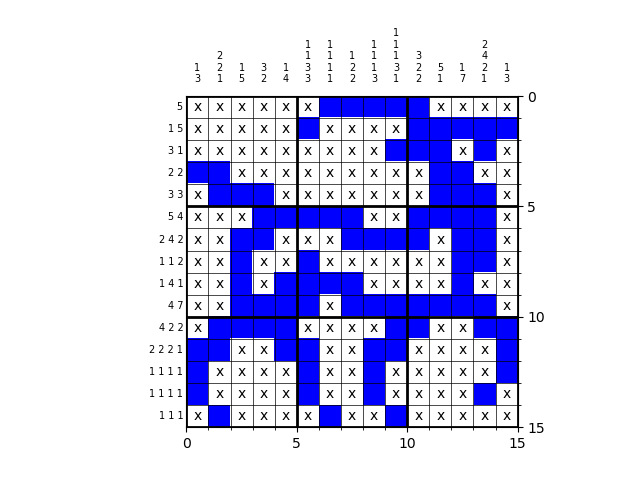
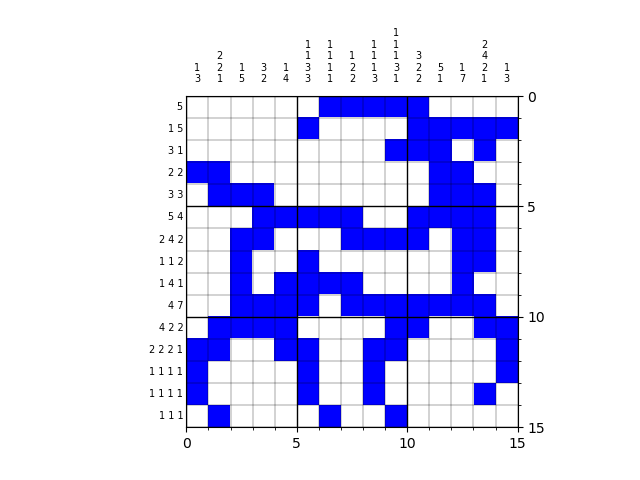
added skipping hard rows

Changed region(s): [[0.2812, 0.1875, 0.8125, 0.9062]]

diff --git a/Nonogram_solver.py b/Nonogram_solver.py
@@ -3,7 +3,7 @@ from matplotlib import colors
 from matplotlib.ticker import MultipleLocator
 import copy
 import time
-
+from math import factorial
 
 class Nonogram:
     """This class contains all the functions needed to solve a nonogram"""
@@ -18,12 +18,15 @@ class Nonogram:
         self.n_rows = len(side_digits)
         self.n_cols = len(top_digits)
         self.field = [[0 for _ in range(self.n_cols)] for _ in range(self.n_rows)]  # the field to solve: 0 means unknown, 1 means space, 2 means painted
+        self.rows_skipped = []
+        self.cols_skipped = []
 
-    def solve(self):
+    def solve(self, n_skip=30_000_000_000):
         """
         This function solves the nonogram and populates self.field with the solution
         """
         time_start = time.time()
+        self.define_skipped_lines(n_skip)  # find what rows and cols to skip
         self.paint_overlaps()  # do fast first iteration
         iteration_count = 0
         while True:  # start solving by going through rows and columns in each iteration
@@ -34,12 +37,34 @@ class Nonogram:
             if 0 not in flattened_field:  # stop if all squares are solved
                 print('puzzle is successfully solved')
                 break
-            if self.field == field_save:  # stop if no progress was made
-                print('stopping because no progress after iteration ', iteration_count)
-                break
+            if self.field == field_save:  # if no progress was made
+                if not self.rows_skipped and not self.cols_skipped:  # no progress and no lines skipped -> cannot solve any more
+                    print('stopping because no progress after iteration ', iteration_count)
+                    break
+                else:
+                    print('no progress - solving with the skipped rows and columns')  # no progress but there are lines skipped -> start solving with skipped lines
+                    self.rows_skipped = []
+                    self.cols_skipped = []
             iteration_count += 1
         time_finish = time.time()
         print('elapsed time:', time_finish - time_start, 'seconds')
+
+    def define_skipped_lines(self, n_skip):
+        """
+        this function adds rows or columns to the lists to skip if there are too many options
+        """
+        for ind_row in range(self.n_rows):  # go row-by-row
+            block_lengths = self.side_digits[ind_row]
+            n_options = self.estimate_n_options(block_lengths, self.n_cols)
+            if n_options > n_skip:
+                self.rows_skipped.append(ind_row)
+                print(n_options, 'options in row', ind_row, '- will be skipped')
+        for ind_col in range(self.n_cols):  # go col-by-col
+            block_lengths = self.top_digits[ind_col]
+            n_options = self.estimate_n_options(block_lengths, self.n_rows)
+            if n_options > n_skip:
+                self.cols_skipped.append(ind_col)
+                print(n_options, 'options in col', ind_col, '- will be skipped')
 
     def paint_overlaps(self):
         """
@@ -67,19 +92,25 @@ class Nonogram:
         :return:
         """
         for ind_row in range(self.n_rows):  # go row-by-row
-            print('\tsolving row', ind_row)
-            line = self.field[ind_row]  # select the current row of the field solution
-            block_lengths = self.side_digits[ind_row]
-            updated_line = self.update_line(line, block_lengths)
-            self.field[ind_row] = updated_line
+            if ind_row in self.rows_skipped:
+                print('\tSKIPPING row', ind_row)
+            else:
+                print('\tsolving row', ind_row)
+                line = self.field[ind_row]  # select the current row of the field solution
+                block_lengths = self.side_digits[ind_row]
+                updated_line = self.update_line(line, block_lengths)
+                self.field[ind_row] = updated_line
 
         for ind_col in range(self.n_cols):  # then go col-by-col
-            print('\tsolving column', ind_col)
-            line = [row[ind_col] for row in self.field]
-            block_lengths = self.top_digits[ind_col]
-            updated_line = self.update_line(line, block_lengths)
-            for ind_row in range(self.n_rows):
-                self.field[ind_row][ind_col] = updated_line[ind_row]
+            if ind_col in self.cols_skipped:
+                print('\tSKIPPING col', ind_col)
+            else:
+                print('\tsolving column', ind_col)
+                line = [row[ind_col] for row in self.field]
+                block_lengths = self.top_digits[ind_col]
+                updated_line = self.update_line(line, block_lengths)
+                for ind_row in range(self.n_rows):
+                    self.field[ind_row][ind_col] = updated_line[ind_row]
 
     def update_line(self, line, block_lengths):
         """
@@ -188,10 +219,10 @@ class Nonogram:
         norm = colors.BoundaryNorm(bounds, cmap.N)
         fig, ax = plt.subplots()
         ax.imshow(self.field, cmap=cmap, norm=norm, extent=[0, self.n_cols, self.n_rows, 0])
-        for ind_row in range(self.n_rows):
-            for ind_col in range(self.n_cols):
-                if self.field[ind_row][ind_col] == 1:
-                    ax.text(ind_col + 0.5, ind_row + 0.5, 'x', ha="center", va="center", fontsize=10)
+        #for ind_row in range(self.n_rows):
+        #    for ind_col in range(self.n_cols):
+        #        if self.field[ind_row][ind_col] == 1:
+        #            ax.text(ind_col + 0.5, ind_row + 0.5, 'x', ha="center", va="center", fontsize=5)
         for ind_row in range(self.n_rows):
             string = ''
             for digit in self.side_digits[ind_row]:
@@ -209,11 +240,19 @@ class Nonogram:
         ax.xaxis.set_minor_locator(MultipleLocator(1))
         ax.yaxis.set_minor_locator(MultipleLocator(1))
         ax.yaxis.tick_right()
-        ax.grid(True, which='minor', color='k', linestyle='-', linewidth=0.5)
-        ax.grid(which='major', color='k', linestyle='-', linewidth=2)
+        ax.grid(True, which='minor', color='k', linestyle='-', linewidth=0.25)
+        ax.grid(which='major', color='k', linestyle='-', linewidth=1)
         if not pause:
             plt.show()
         else:
             plt.show(block=False)
             plt.pause(pause)
             plt.close()
+
+    def estimate_n_options(self, block_lengths, n_line):
+        free_squares = n_line - sum(block_lengths)
+        n_ways_last_gap_not_empty = 0
+        if free_squares >= len(block_lengths):
+            n_ways_last_gap_not_empty = factorial(free_squares) // factorial(len(block_lengths)) // factorial(free_squares - len(block_lengths))
+        n_ways_last_gap_empty = factorial(free_squares) // factorial(len(block_lengths)-1) // factorial(free_squares - len(block_lengths)+1)
+        return n_ways_last_gap_not_empty + n_ways_last_gap_empty

diff --git a/README.md b/README.md
@@ -21,4 +21,10 @@ my_nonogram.solve()
 my_nonogram.plot_field()
 ```
 
+For large puzzles that can take exponentially long time to solve, a feature is implemented to skip rows that allow too many possible combinations and return to them later. For this, a parameter `n_skip` can be specified when solving the puzzle (30_000_000_000 by default):
+```python
+my_nonogram.solve(n_skip=30_000_000_000)
+```
+
+
 
